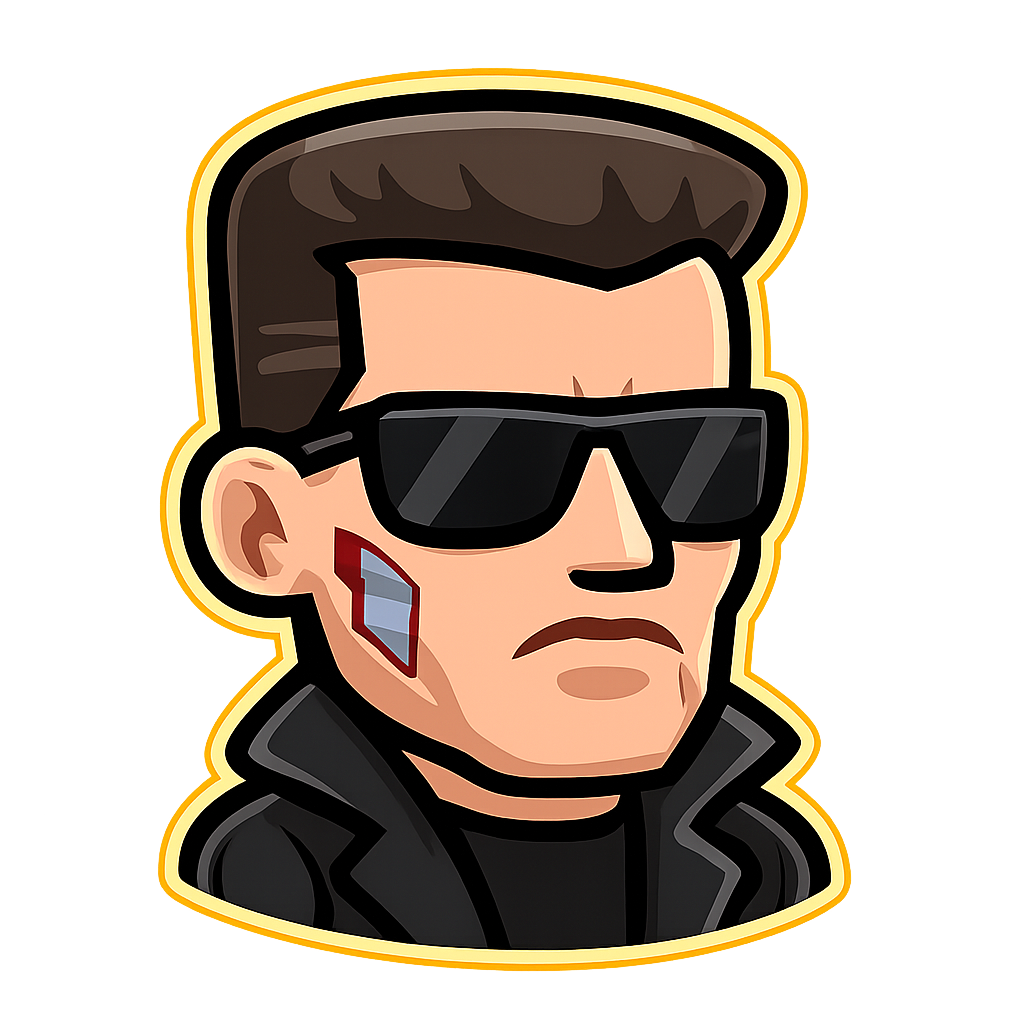
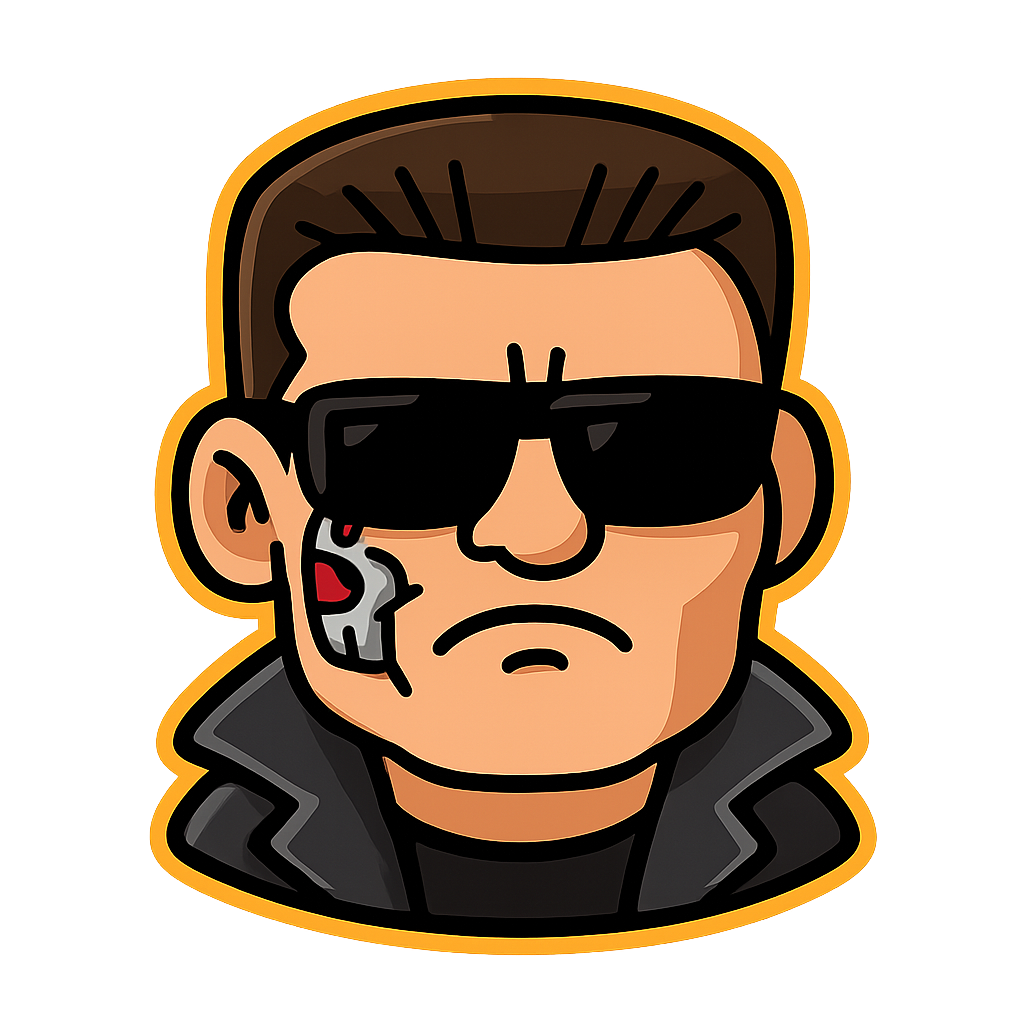
Terminator: back to the front-view version
Claude-Session: https://claude.ai/code/session_019QwctBLnb4UTXMJBnbargq

diff --git a/index.html b/index.html
@@ -1791,7 +1791,7 @@ const faceHTML = (e, who = 'suit') => FACE_ART[who][e] || FACE_ART.suit[e] || e;
 // 같은 그림이 여러 개 있어도 박자가 겹치지 않게 시작점을 흩뜨림
 // 그림을 다시 그려도 폰에 남은 옛 그림이 보이지 않게 주소에 버전을 붙임
 // 파일마다 내용이 바뀔 때만 새로 받도록 파일 해시를 붙임 (빌드할 때 채움)
-const ART_HASH = {"tile-gundam-a.png": "41a00219", "ind-school-a.png": "1b0fc977", "robot-cobot-cook-b.png": "49f28697", "tile-tool-a.png": "48c7dc89", "tile-made-a.png": "43e550a9", "ind-training-b.png": "0efc1d0b", "robot-qarm-a.png": "901f7afc", "tile-legs-b.png": "c0299b41", "tile-union-b.png": "b3a03a42", "face-cook-frown.png": "e01a4907", "face-cook-neutral.png": "71441525", "ind-battery-b.png": "6e2bd18d", "ind-fire-a.png": "a71484d3", "face-trump-neutral.png": "5aecac90", "tile-legs-a.png": "2faadad6", "face-worker-angry.png": "eb6b88ed", "ind-steel-a.png": "0f070238", "face-suitf-delight.png": "d729900f", "ind-steel-b.png": "e122612f", "ind-defense-b.png": "5aa959f1", "face-cook-angry.png": "50c65318", "ind-port-b.png": "6f5dc395", "tile-tf-a.png": "d2bc0939", "ind-factory-a.png": "909659fd", "tile-term-b.png": "c59a6ccb", "face-neutral.png": "a9a959b5", "tile-wheel-a.png": "c05f428e", "face-cook-smile.png": "be9219e0", "tile-korea-b.png": "1fcc2bd8", "face-trump-tear.png": "21d22245", "tile-auto-b.png": "93bf796f", "ind-material-b.png": "a8f27197", "tile-korea-a.png": "f7ec52b4", "tile-union-a.png": "d48507d4", "ind-auto-a.png": "9a8abf4f", "face-frown.png": "26865767", "robot-centaur-a.png": "a9e1e03b", "tile-auto-a.png": "280ae89b", "robot-cobot-cook-a.png": "2acb022c", "face-worker-tear.png": "940dcfc3", "ind-autoparts-b.png": "a5dbd76a", "face-suitf-angry.png": "5b24ceb5", "face-suitf-tear.png": "d0923069", "robot-centaur-b.png": "2121c116", "robot-mm-a.png": "e5da97cf", "ind-defense-a.png": "23a0651c", "robot-quad-a.png": "1e1384cf", "ind-autoparts-a.png": "26dcf7ce", "tile-eva-b.png": "a0ce3ca3", "face-cook-tear.png": "d529800c", "tile-gundam-b.png": "69722c17", "face-trump-delight.png": "e41c1f7d", "face-angry.png": "8542c3c5", "tile-floor-b.png": "7bfb4d09", "face-suitf-smile.png": "2bfa949d", "ind-material-a.png": "2c67685e", "tile-term-a.png": "dc78a348", "tile-eva-a.png": "8c753c91", "tile-hum-a.png": "cdc85433", "ind-port-a.png": "0e5340b9", "ind-police-a.png": "717025fa", "robot-cobot-a.png": "bb066d5e", "face-trump-angry.png": "6fc0cf6d", "tile-wheel-b.png": "e7b51f64", "face-worker-neutral.png": "f4f1ff96", "robot-amr-a.png": "21455470", "face-delight.png": "4b63238d", "face-trump-frown.png": "4102f723", "robot-mm-b.png": "e5da97cf", "ind-fire-b.png": "c530534e", "ind-police-b.png": "750b1169", "ind-ess-b.png": "c7fac005", "ind-training-a.png": "a9fe00e5", "tile-tf-b.png": "23f3efda", "ind-aircraft-a.png": "53a6b218", "ind-school-b.png": "a14af652", "tile-arm-b.png": "18d400ac", "face-worker-delight.png": "56fdb189", "face-worker-smile.png": "7eaefd7c", "robot-quad-b.png": "6beea498", "ind-chicken-a.png": "bd4bc4e3", "face-cook-delight.png": "5ceb20b0", "ind-battery-a.png": "2ead7359", "robot-agv-b.png": "60781845", "face-tear.png": "7cacead6", "face-suitf-neutral.png": "b29259fe", "ind-auto-b.png": "f90715bb", "ind-shipyard-a.png": "7c43481e", "tile-tool-b.png": "c90763b3", "ind-factory-b.png": "b9dfaab4", "ind-chicken-b.png": "b4930a6b", "ind-shipyard-b.png": "098fdbae", "robot-qarm-b.png": "d310bf72", "tile-arm-a.png": "cd420a51", "tile-made-b.png": "5c6a705c", "tile-floor-a.png": "14074a30", "robot-cobot-weld-a.png": "dfa17c7e", "robot-agv-a.png": "ee67b65c", "ind-logistics-b.png": "9c5aeeca", "face-smile.png": "786eeb95", "face-worker-frown.png": "0f8d8086", "robot-cobot-weld-b.png": "a9717a14", "robot-amr-b.png": "cf5ab865", "tile-hum-b.png": "8664da1f", "ind-ess-a.png": "83fff111", "face-suitf-frown.png": "1236f440", "ind-aircraft-b.png": "6afa5f2a", "face-trump-smile.png": "03674df8", "robot-cobot-b.png": "1aa058ce", "ind-logistics-a.png": "b1b04f38"};
+const ART_HASH = {"tile-gundam-a.png": "41a00219", "ind-school-a.png": "1b0fc977", "robot-cobot-cook-b.png": "49f28697", "tile-tool-a.png": "48c7dc89", "tile-made-a.png": "43e550a9", "ind-training-b.png": "0efc1d0b", "robot-qarm-a.png": "901f7afc", "tile-legs-b.png": "c0299b41", "tile-union-b.png": "b3a03a42", "face-cook-frown.png": "e01a4907", "face-cook-neutral.png": "71441525", "ind-battery-b.png": "6e2bd18d", "ind-fire-a.png": "a71484d3", "face-trump-neutral.png": "5aecac90", "tile-legs-a.png": "2faadad6", "face-worker-angry.png": "eb6b88ed", "ind-steel-a.png": "0f070238", "face-suitf-delight.png": "d729900f", "ind-steel-b.png": "e122612f", "ind-defense-b.png": "5aa959f1", "face-cook-angry.png": "50c65318", "ind-port-b.png": "6f5dc395", "tile-tf-a.png": "d2bc0939", "ind-factory-a.png": "909659fd", "tile-term-b.png": "fa8e5b3f", "face-neutral.png": "a9a959b5", "tile-wheel-a.png": "c05f428e", "face-cook-smile.png": "be9219e0", "tile-korea-b.png": "1fcc2bd8", "face-trump-tear.png": "21d22245", "tile-auto-b.png": "93bf796f", "ind-material-b.png": "a8f27197", "tile-korea-a.png": "f7ec52b4", "tile-union-a.png": "d48507d4", "ind-auto-a.png": "9a8abf4f", "face-frown.png": "26865767", "robot-centaur-a.png": "a9e1e03b", "tile-auto-a.png": "280ae89b", "robot-cobot-cook-a.png": "2acb022c", "face-worker-tear.png": "940dcfc3", "ind-autoparts-b.png": "a5dbd76a", "face-suitf-angry.png": "5b24ceb5", "face-suitf-tear.png": "d0923069", "robot-centaur-b.png": "2121c116", "robot-mm-a.png": "e5da97cf", "ind-defense-a.png": "23a0651c", "robot-quad-a.png": "1e1384cf", "ind-autoparts-a.png": "26dcf7ce", "tile-eva-b.png": "a0ce3ca3", "face-cook-tear.png": "d529800c", "tile-gundam-b.png": "69722c17", "face-trump-delight.png": "e41c1f7d", "face-angry.png": "8542c3c5", "tile-floor-b.png": "7bfb4d09", "face-suitf-smile.png": "2bfa949d", "ind-material-a.png": "2c67685e", "tile-term-a.png": "f86a988f", "tile-eva-a.png": "8c753c91", "tile-hum-a.png": "cdc85433", "ind-port-a.png": "0e5340b9", "ind-police-a.png": "717025fa", "robot-cobot-a.png": "bb066d5e", "face-trump-angry.png": "6fc0cf6d", "tile-wheel-b.png": "e7b51f64", "face-worker-neutral.png": "f4f1ff96", "robot-amr-a.png": "21455470", "face-delight.png": "4b63238d", "face-trump-frown.png": "4102f723", "robot-mm-b.png": "e5da97cf", "ind-fire-b.png": "c530534e", "ind-police-b.png": "750b1169", "ind-ess-b.png": "c7fac005", "ind-training-a.png": "a9fe00e5", "tile-tf-b.png": "23f3efda", "ind-aircraft-a.png": "53a6b218", "ind-school-b.png": "a14af652", "tile-arm-b.png": "18d400ac", "face-worker-delight.png": "56fdb189", "face-worker-smile.png": "7eaefd7c", "robot-quad-b.png": "6beea498", "ind-chicken-a.png": "bd4bc4e3", "face-cook-delight.png": "5ceb20b0", "ind-battery-a.png": "2ead7359", "robot-agv-b.png": "60781845", "face-tear.png": "7cacead6", "face-suitf-neutral.png": "b29259fe", "ind-auto-b.png": "f90715bb", "ind-shipyard-a.png": "7c43481e", "tile-tool-b.png": "c90763b3", "ind-factory-b.png": "b9dfaab4", "ind-chicken-b.png": "b4930a6b", "ind-shipyard-b.png": "098fdbae", "robot-qarm-b.png": "d310bf72", "tile-arm-a.png": "cd420a51", "tile-made-b.png": "5c6a705c", "tile-floor-a.png": "14074a30", "robot-cobot-weld-a.png": "dfa17c7e", "robot-agv-a.png": "ee67b65c", "ind-logistics-b.png": "9c5aeeca", "face-smile.png": "786eeb95", "face-worker-frown.png": "0f8d8086", "robot-cobot-weld-b.png": "a9717a14", "robot-amr-b.png": "cf5ab865", "tile-hum-b.png": "8664da1f", "ind-ess-a.png": "83fff111", "face-suitf-frown.png": "1236f440", "ind-aircraft-b.png": "6afa5f2a", "face-trump-smile.png": "03674df8", "robot-cobot-b.png": "1aa058ce", "ind-logistics-a.png": "b1b04f38"};
 const av = f => `${f}?v=${ART_HASH[f.replace('assets/', '')] || '0'}`;
 // 업종 아이콘(ind-)은 a프레임만, 로봇·부품은 a·b를 번갈아 (팔이 까딱, 다리가 제자리걸음 등)
 const artHTML = key => `<span class="art bob${key.startsWith('ind-') ? '' : ' swap'}" style="--d:-${(Math.random() * 1.1).toFixed(2)}s"><img src="${av(`assets/${key}-a.png`)}" alt=""><img class="b" src="${av(`assets/${key}-b.png`)}" alt=""></span>`;
@@ -2115,7 +2115,7 @@ function banner(text, delay) {
 }
 
 // ───────── 진행 ─────────
-const BUILD_V = '1003-133204';
+const BUILD_V = '1003-133244';
 function loop(t) {
   const dt = Math.min(0.1, (t - (S.last || t)) / 1000);
   S.last = t;
